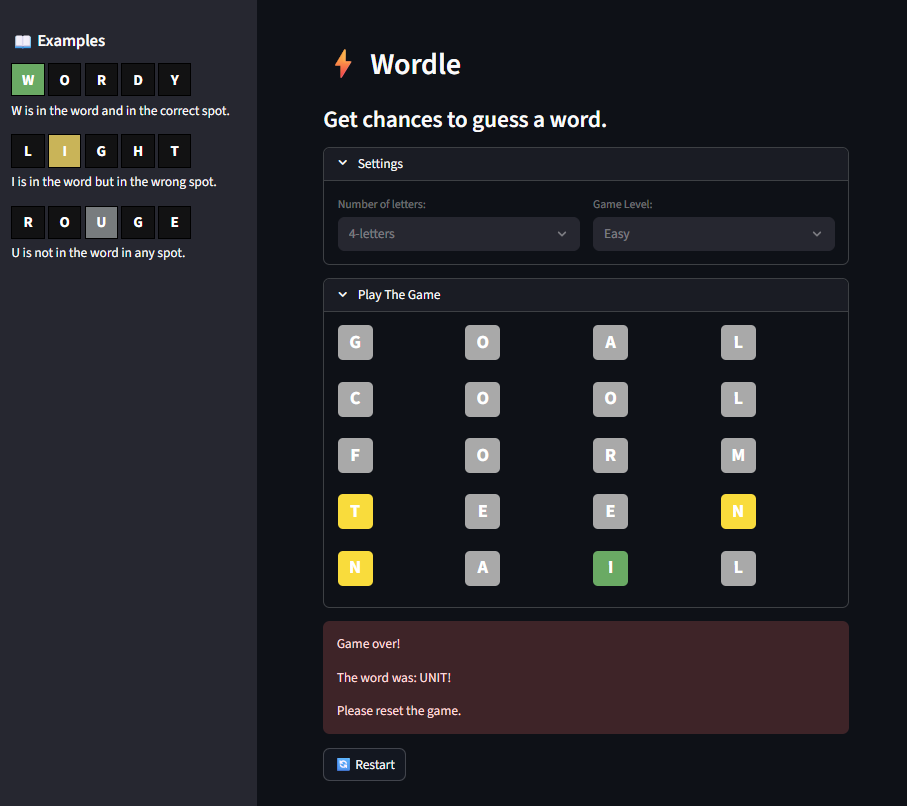
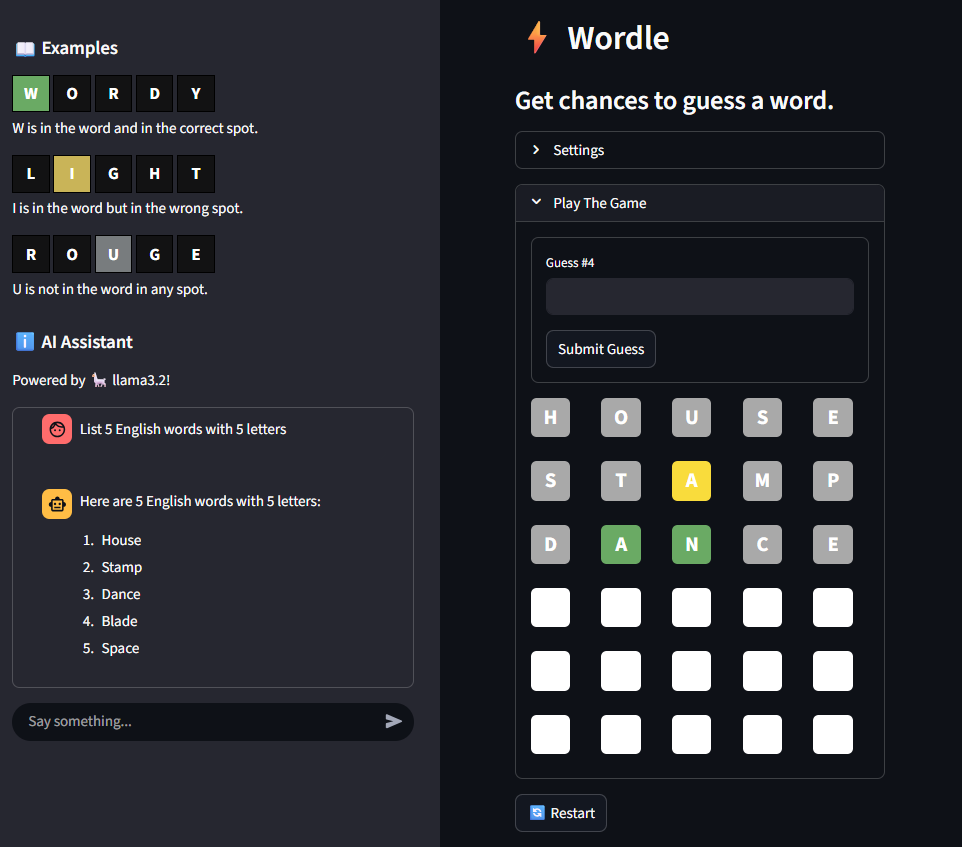
The final commit to finish the game - The AI assistant in the sidebar is now powered by Llama3.2 - Updated the sidebar header to "AI Assistant" - Reduced the chat history container height for better layout

diff --git a/st_app.py b/st_app.py
@@ -14,6 +14,7 @@ from src.utils.constants import (
     examples_html
 )
 
+model = "llama3.2"
 
 # ---------------------- #
 #  Streamlit Page Config #
@@ -32,12 +33,6 @@ st.set_page_config(
 st.header(":zap: Wordle")
 st.subheader("Get chances to guess a word.")
 
-# ---------------------- #
-#   Sidebar Game Guide   #
-# ---------------------- #
-st.sidebar.header("📖 Examples")
-# HTML snippet with sample gameplay demonstration
-st.sidebar.markdown(examples_html, unsafe_allow_html=True) 
 
 # ---------------------- #
 #  Initialize Session    #
@@ -63,6 +58,56 @@ def _maybe_lock() -> None:
         st.session_state[level_val] = st.session_state[level_key]
         st.session_state[config_locked] = True
 
+
+# ---------------------- #
+#   Sidebar Game Guide   #
+# ---------------------- #
+st.sidebar.header("📖 Examples")
+# HTML snippet with sample gameplay demonstration
+st.sidebar.markdown(examples_html, unsafe_allow_html=True)
+
+
+# ---------------------- #
+#   Sidebar Chatbot      #
+# ---------------------- #
+st.sidebar.header("ℹ AI Assistant")
+st.sidebar.write(f'Powered by 🦙 {model}!')
+
+# Chat history container
+chat_container = st.sidebar.container(height=300)
+
+# Display existing messages
+with chat_container:
+    for msg in st.session_state.messages:
+        st.chat_message(msg["role"]).write(msg["content"])
+
+# Chat input
+if prompt := st.sidebar.chat_input("Say something..."):
+    # Add user message to session state
+    st.session_state.messages.append({"role": "user", "content": prompt})
+    
+    # Display user message immediately
+    with chat_container:
+        st.chat_message("user").write(prompt)
+    
+    # Stream assistant response
+    assistant_msg = ''
+    assistant_placeholder = chat_container.empty()
+    
+    with st.sidebar:
+        with st.spinner("🤖 Generating answer ..."):
+            for chunk in call_llama_func(
+                model, 
+                prompt, 
+                stream=True,
+                messages=st.session_state.messages[:-1]
+            ):
+                assistant_msg += chunk
+                with assistant_placeholder.container():
+                    st.chat_message("assistant").write(assistant_msg)
+    
+    # Save assistant message to session state
+    st.session_state.messages.append({"role": "assistant", "content": assistant_msg})
 
 # ---------------------- #
 #   Game Configuration   #
@@ -214,4 +259,5 @@ if st.session_state.game_win and not st.session_state.balloons_shown:
 # returning to the configuration screen.
 if st.button("🔄 Restart"):
     st.session_state.clear()
+    st.session_state.messages = []
     st.rerun()

diff --git a/src/utils/call_llama.py b/src/utils/call_llama.py
@@ -1,11 +1,17 @@
 import ollama
 
-def call_llama_func(model, prompt, stream=False):
+def call_llama_func(model, prompt, stream=False, messages=None):
+    if messages is None:
+        message_list = [{"role": "user", "content": prompt}]
+    else:
+        message_list = messages.copy()
+        message_list.append({"role": "user", "content": prompt})
+
+
     if stream:
         # Streaming response
         stream = ollama.chat(
-            model=model, messages=[
-            {"role": "user", "content": prompt}],
+            model=model, messages=message_list,
             stream=True
         )
         
@@ -13,7 +19,5 @@ def call_llama_func(model, prompt, stream=False):
             yield chunk["message"]["content"]
     else:
         # Single complete response
-        response = ollama.chat(model=model, messages=[
-            {"role": "user", "content": prompt}
-        ])
+        response = ollama.chat(model=model, messages=message_list, stream=False)
         return response["message"]["content"]

diff --git a/src/utils/constants.py b/src/utils/constants.py
@@ -9,6 +9,7 @@ game_win = "game_win"
 game_start = "game_start"
 word_selected = ""
 balloons_shown = "balloons_shown"
+messages = "messages"
 
 
 game_levels = {
@@ -29,7 +30,8 @@ defaults = {
     game_win: False,
     game_start: False,
     word_selected: '',
-    balloons_shown: False
+    balloons_shown: False,
+    messages: [],
 }
 
 examples_html = """

diff --git a/README.md b/README.md
@@ -34,8 +34,19 @@ Players configure the **word length** and **difficulty level**, then attempt to 
 ```bash
 pip install -r requirements.txt
 ```
-## 🚀 Versions
-- [X] Version 1.0:
-    - The Simple Wordle Game
-- [ ] Version 2.0:
-    - It will be featured with AI chatbot to guide the user
+## 🚀 AI Assistant
+
+The current version uses open-source LLM model **Llama3.2** to power the AI assistant in the sidebar.
+
+In order to switch to a different model, simply change the `model` variable in `st_app.py`:
+
+```python
+model = "llama3.2"  # Change to your desired model name
+```
+But, before switching, ensure that the model is compatible with the `call_llama_func` function in `llama_utils.py`.
+### Installation of Llama3.2
+You can use the following command to install Llama3.2:
+
+1. Go to the [llama GitHub repository](https://github.com/ollama/ollama)
+2. Follow the installation instructions provided in the repository to set up Llama3.2 on your local machine.
+3. You can install any other model by following the same steps, then customizing the `model` variable in `st_app.py`.
